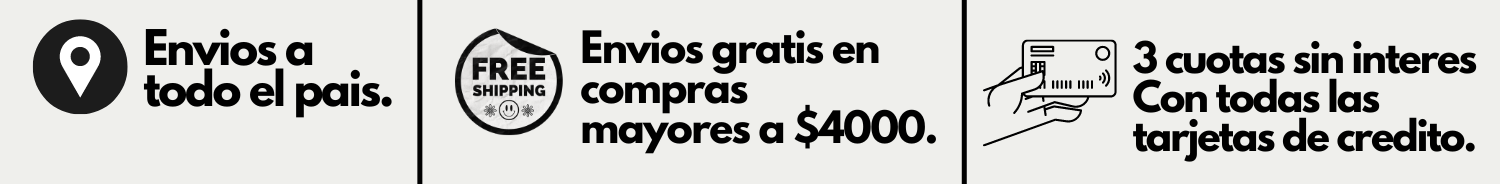
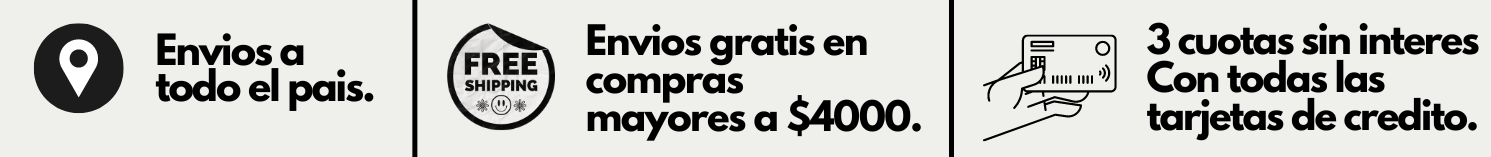
ultimo

Changed region(s): [[0.0, 0.0, 1.0, 1.0]]

diff --git a/scss/layout/_main.scss b/scss/layout/_main.scss
@@ -23,26 +23,11 @@ h1{
 .envios{
     width:100%;
     height:100px;
-    background: linear-gradient(white, rgb(157, 170, 172));
-    margin-top:3rem;
-    .lista-envio{
-        display:flex;
-        justify-content: center;
-        gap:3rem;
-        li{
-            font-family: 'Ubuntu', sans-serif;
-            font-weight: bold;
-            color:rgb(46, 44, 44);
-            list-style: none;
-            margin-top: 1rem;
-            .div-icon{
-                width:40px;
-            }
-            dt{
-               margin-left: 2.5rem;
-            }
-        }        
-    }
+    margin:3rem 0 4rem 0;
+  .env-img{
+    width:100%;
+    height:auto;
+  }
 }
 
 .cat {
@@ -61,8 +46,3 @@ h1{
     }
   }
   
-
-  .env-img{
-    width:100%;
-    height:auto;
-  }

diff --git a/css/style.css b/css/style.css
@@ -209,26 +209,11 @@ h1 {
 .envios {
   width: 100%;
   height: 100px;
-  background: linear-gradient(white, rgb(157, 170, 172));
-  margin-top: 3rem;
+  margin: 3rem 0 4rem 0;
 }
-.envios .lista-envio {
-  display: flex;
-  justify-content: center;
-  gap: 3rem;
-}
-.envios .lista-envio li {
-  font-family: "Ubuntu", sans-serif;
-  font-weight: bold;
-  color: rgb(46, 44, 44);
-  list-style: none;
-  margin-top: 1rem;
-}
-.envios .lista-envio li .div-icon {
-  width: 40px;
-}
-.envios .lista-envio li dt {
-  margin-left: 2.5rem;
+.envios .env-img {
+  width: 100%;
+  height: auto;
 }
 
 .cat {
@@ -245,11 +230,6 @@ h1 {
 .cat li a {
   display: flex;
   align-items: center;
-}
-
-.env-img {
-  width: 100%;
-  height: auto;
 }
 
 /*# sourceMappingURL=style.css.map */

diff --git a/index.html b/index.html
@@ -141,9 +141,7 @@
       <!-- Aqui van los productos que cargo en la base de datos -->
     </div>
 
-    <div>
-      <h3 id="Novedades">Novedades</h3>
-    </div>
+ 
 
   </main>
   <script src="https://cdn.jsdelivr.net/npm/sweetalert2@11"></script>
